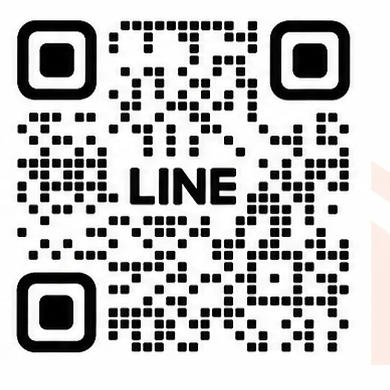
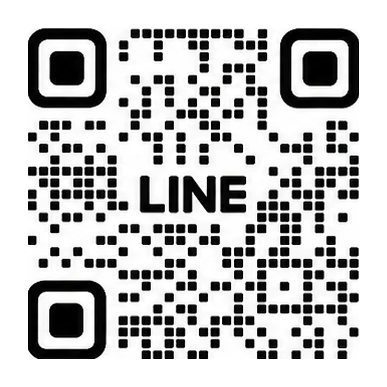
手機細節：形象照去黑邊、數字格等寬、QR 重裁；首頁砍掉在售物件區；影片區改頻道卡＋影片列並每日自動更新

diff --git a/index.html b/index.html
@@ -116,12 +116,12 @@ section.alt{background:#fff}
 
 /* 信任數字 */
 .stats{margin-top:-30px;position:relative;z-index:2;padding:0}
-.stats .grid{display:grid;grid-template-columns:repeat(4,1fr);gap:12px}
+.stats .grid{display:grid;grid-template-columns:repeat(4,minmax(0,1fr));gap:12px}
 .stat{background:#fff;border-radius:var(--r);box-shadow:var(--shadow);padding:18px 18px 16px;border-top:4px solid var(--orange)}
 .stat .v{font-size:30px;font-weight:900;color:var(--teal);line-height:1.1;letter-spacing:-.5px}
 .stat .v small{font-size:14px;font-weight:700;margin-left:2px}
 .stat .l{font-size:13px;color:var(--muted);margin-top:6px;line-height:1.45}
-@media (max-width:760px){.stats .grid{grid-template-columns:1fr 1fr}.stat{padding:14px}.stat .v{font-size:24px}}
+@media (max-width:760px){.stats .grid{grid-template-columns:repeat(2,minmax(0,1fr))}.stat{padding:14px}.stat .v{font-size:24px}.stat .l{font-size:12.5px}}
 
 /* 服務 */
 .svc{display:grid;grid-template-columns:repeat(3,1fr);gap:14px}
@@ -161,18 +161,34 @@ section.alt{background:#fff}
 .tool p{font-size:13px;color:var(--muted);line-height:1.5;margin-top:2px}
 @media (max-width:860px){.tools{grid-template-columns:1fr}}
 
-/* 社群 */
-.social{display:grid;grid-template-columns:1.3fr 1fr;gap:20px;align-items:start}
-.yt{position:relative;aspect-ratio:16/9;border-radius:var(--r);overflow:hidden;box-shadow:var(--shadow);background:#000}
-.yt iframe{position:absolute;inset:0;width:100%;height:100%;border:0}
-.links{display:grid;gap:10px}
-.lk{display:flex;align-items:center;gap:12px;background:#fff;border-radius:14px;padding:12px 14px;box-shadow:var(--shadow);text-decoration:none;color:var(--ink);transition:.18s}
-.lk:hover{transform:translateX(3px)}
-.lk .ic{width:38px;height:38px;border-radius:10px;display:flex;align-items:center;justify-content:center;color:#fff;font-weight:900;font-size:15px;flex:none}
-.lk b{font-size:15px;color:var(--teal)}
-.lk span{font-size:12.5px;color:var(--muted);display:block}
-.lk .go{margin-left:auto;color:var(--faint)}
-@media (max-width:860px){.social{grid-template-columns:1fr}}
+/* 影片 */
+.ch{display:flex;align-items:center;gap:14px;background:#fff;border-radius:var(--r);box-shadow:var(--shadow);padding:16px 18px;margin-bottom:14px}
+.ch img{width:64px;height:64px;border-radius:50%;object-fit:cover;flex:none;border:3px solid #fff;box-shadow:0 0 0 2px #ff0000}
+.ch .t{min-width:0;flex:1}
+.ch b{font-size:17px;color:var(--teal);display:block;white-space:nowrap;overflow:hidden;text-overflow:ellipsis}
+.ch span{font-size:13px;color:var(--muted);display:block}
+.ch .btn{background:#ff0000;color:#fff;border-color:#ff0000;padding:9px 14px;font-size:13.5px}
+.ch .btn:hover{background:#d90000}
+.vids{display:grid;grid-template-columns:repeat(3,minmax(0,1fr));gap:14px}
+.vd{display:flex;flex-direction:column;background:#fff;border-radius:var(--r);box-shadow:var(--shadow);overflow:hidden;text-decoration:none;color:var(--ink);transition:.2s}
+.vd:hover{transform:translateY(-3px)}
+.vd .th{position:relative;aspect-ratio:1/1;background:#111;overflow:hidden}
+.vd .th img{width:100%;height:100%;object-fit:cover}
+.vd .th i{position:absolute;left:50%;top:50%;width:48px;height:48px;margin:-24px 0 0 -24px;border-radius:50%;background:rgba(255,0,0,.92);display:flex;align-items:center;justify-content:center;box-shadow:0 6px 18px rgba(0,0,0,.35)}
+.vd .th i::after{content:"";border-left:16px solid #fff;border-top:10px solid transparent;border-bottom:10px solid transparent;margin-left:4px}
+.vd .bd{padding:12px 14px 14px}
+.vd h3{font-size:14.5px;line-height:1.5;color:var(--teal);display:-webkit-box;-webkit-line-clamp:2;-webkit-box-orient:vertical;overflow:hidden}
+.vd span{font-size:12px;color:var(--faint);display:block;margin-top:6px}
+.vids-empty{background:#fff;border-radius:var(--r);padding:24px;text-align:center;color:var(--muted);box-shadow:var(--shadow)}
+@media (max-width:760px){
+ .ch{padding:14px}.ch img{width:56px;height:56px}.ch b{font-size:15.5px}.ch .btn{padding:8px 12px;font-size:13px}
+ .vids{grid-template-columns:1fr;gap:10px}
+ .vd{flex-direction:row;align-items:stretch}
+ .vd .th{width:40%;flex:none;aspect-ratio:auto;min-height:104px}
+ .vd .th i{width:38px;height:38px;margin:-19px 0 0 -19px}.vd .th i::after{border-left-width:13px;border-top-width:8px;border-bottom-width:8px}
+ .vd .bd{padding:10px 12px;display:flex;flex-direction:column;justify-content:center}
+ .vd h3{font-size:14px;-webkit-line-clamp:3}
+}
 
 /* 名片區 */
 .vcard{background:#fff;border-radius:var(--r);box-shadow:var(--shadow);padding:22px;display:grid;grid-template-columns:1.1fr 1.4fr auto;gap:22px;align-items:center;border-top:5px solid var(--orange)}
@@ -209,7 +225,7 @@ footer.legal a{color:var(--faint)}
 
 <div class="top"><div class="in">
  <a class="logo" href="./"><i><svg width="16" height="16" viewBox="0 0 64 64"><path d="M32 14 12 32h6v18h12V38h4v12h12V32h6z" fill="#fff"/></svg></i>蘇聖斌<small>｜台灣房屋 松竹十一期</small></a>
- <nav><a href="#services">服務</a><a href="#listings">在售物件</a><a href="#tools">實用工具</a><a href="#social">影片</a><a href="#contact">聯絡</a></nav>
+ <nav><a href="#services">服務</a><a href="#tools">實用工具</a><a href="#social">影片</a><a href="#contact">聯絡</a></nav>
  <a class="btn p sm" href="https://line.me/R/ti/p/@a0888" target="_blank" rel="noopener">加 LINE</a>
 </div></div>
 
@@ -261,14 +277,8 @@ footer.legal a{color:var(--faint)}
  </div>
 </section>
 
-<section id="listings" class="alt">
- <div class="in">
-  <div class="sec-h fx"><div class="k">LISTINGS</div><h2>在售物件</h2><p>每一戶都有完整規格，點進去看照片、算房貸、直接問我。</p></div>
-  <div class="lst" id="lst"><div class="lst-empty">物件載入中…</div></div>
- </div>
-</section>
 
-<section id="tools">
+<section id="tools" class="alt">
  <div class="in">
   <div class="sec-h fx"><div class="k">TOOLS</div><h2>實用工具</h2><p>我做給客戶用的，免費、不用登入。</p></div>
   <div class="tools">
@@ -279,19 +289,11 @@ footer.legal a{color:var(--faint)}
  </div>
 </section>
 
-<section id="social" class="alt">
+<section id="social">
  <div class="in">
-  <div class="sec-h fx"><div class="k">VIDEO & SOCIAL</div><h2>看影片認識我</h2><p>社區實地走訪、買房觀念，每週更新。追蹤我，新物件第一時間知道。</p></div>
-  <div class="social">
-   <div class="yt fx"><iframe src="https://www.youtube.com/embed/videoseries?list=UUSqZFDGsO5xHP9JeqJdxNMA&rel=0" title="蘇聖斌 YouTube 最新影片" loading="lazy" allow="accelerometer; autoplay; clipboard-write; encrypted-media; gyroscope; picture-in-picture; web-share" allowfullscreen></iframe></div>
-   <div class="links">
-    <a class="lk fx" href="https://www.threads.com/@a0958810178" target="_blank" rel="noopener"><span class="ic" style="background:#000">@</span><div><b>Threads</b><span>每日物件與看屋心得</span></div><span class="go">›</span></a>
-    <a class="lk fx" href="https://www.instagram.com/bin_0958810178" target="_blank" rel="noopener"><span class="ic" style="background:linear-gradient(45deg,#f58529,#dd2a7b,#8134af)">IG</span><div><b>Instagram</b><span>物件照片、社區實景</span></div><span class="go">›</span></a>
-    <a class="lk fx" href="https://www.youtube.com/@Bin0958" target="_blank" rel="noopener"><span class="ic" style="background:#ff0000">▶</span><div><b>YouTube</b><span>社區走訪、買房觀念影片</span></div><span class="go">›</span></a>
-    <a class="lk fx" href="https://www.facebook.com/Su.Bin.0958810178" target="_blank" rel="noopener"><span class="ic" style="background:#1877f2">f</span><div><b>Facebook</b><span>成交分享、市場動態</span></div><span class="go">›</span></a>
-    <a class="lk fx" href="https://www.tiktok.com/@bin0958810178" target="_blank" rel="noopener"><span class="ic" style="background:#111">♪</span><div><b>TikTok</b><span>一分鐘看一間房</span></div><span class="go">›</span></a>
-   </div>
-  </div>
+  <div class="sec-h fx"><div class="k">VIDEO</div><h2>看影片認識我</h2><p>社區實地走訪、買房觀念，持續更新。訂閱頻道，新物件第一時間看到。</p></div>
+  <div class="ch fx" id="ch"><img src="https://yt3.googleusercontent.com/WoTkjdkzFi98tRWdFk49nfszS7aLfRkJ7g9odcjwTVHWumA3kO9iZFAvjW9eY1kDaQakgvDC=s900-c-k-c0x00ffffff-no-rj" alt="頻道頭像" width="64" height="64" loading="lazy" onerror="this.src='assets/portrait.jpg'"><div class="t"><b id="chName">台中房地產_蘇聖斌</b><span>YouTube 頻道・社區走訪、買房觀念、一分鐘看一間房</span></div><a class="btn" href="https://www.youtube.com/@Bin0958?sub_confirmation=1" target="_blank" rel="noopener">▶ 訂閱頻道</a></div>
+  <div class="vids" id="vids"><div class="vids-empty">影片載入中…</div></div>
  </div>
 </section>
 
@@ -330,22 +332,17 @@ footer.legal a{color:var(--faint)}
 /* 進場動畫 */
 const io=new IntersectionObserver(es=>es.forEach(e=>{if(e.isIntersecting){e.target.classList.add('in');io.unobserve(e.target);}}),{threshold:.12});
 document.querySelectorAll('.fx').forEach(el=>io.observe(el));
+setTimeout(()=>document.querySelectorAll('.fx').forEach(el=>el.classList.add('in')),1200);
 
-/* 在售物件：讀 threads-poster 的公開規格 */
-const RAW='https://raw.githubusercontent.com/Bin-realty/threads-poster/main/';
-const box=document.getElementById('lst');
-const esc=s=>String(s||'').replace(/[&<>"]/g,c=>({'&':'&amp;','<':'&lt;','>':'&gt;','"':'&quot;'}[c]));
-function parseSpec(spec){const o={};String(spec||'').split('\n').forEach(l=>{const m=l.replace(/^┃/,'').split('：');if(m.length>=2)o[m[0].trim()]=m.slice(1).join('：').trim();});return o;}
-fetch(RAW+'data/listings.json',{cache:'no-store'}).then(r=>r.json()).then(j=>{
-  const arr=(j.listings||[]).filter(l=>l.code&&l.name);
-  if(!arr.length){box.innerHTML='<div class="lst-empty">目前沒有公開中的物件，想找房直接 <a href="https://line.me/R/ti/p/@a0888">LINE 我</a>。</div>';return;}
-  box.innerHTML=arr.map(l=>{const s=parseSpec(l.spec);const code=l.code.toLowerCase();
-    return `<a class="lc fx in" href="listing.html?code=${esc(l.code)}">
-     <div class="ph"><div class="nm">${esc(l.name)}</div><img src="${RAW}listings/${code}/album/01.jpg" alt="${esc(l.name)}" loading="lazy" onerror="this.remove()"><span class="tag">${esc(l.layout||'')}</span></div>
-     <div class="bd"><h3>${esc(l.name)}</h3><div class="ask">${esc(l.ask||'')}<small>${esc(s['建坪']||'')}</small></div>
-     <div class="sp">${s['地址']?`<b>${esc(s['地址'])}</b><br>`:''}${[s['樓層'],s['屋齡'],s['車位']].filter(Boolean).map(esc).join('・')}</div>
-     <div class="more">看照片、算房貸 ›</div></div></a>`;}).join('');
-}).catch(()=>{box.innerHTML='<div class="lst-empty">物件暫時載入不了，到 <a href="https://www.threads.com/@a0958810178" target="_blank" rel="noopener">Threads</a> 看最新物件，或直接 <a href="https://line.me/R/ti/p/@a0888">LINE 我</a>。</div>';});
+/* 影片清單（data/videos.json，每天自動更新） */
+const vb=document.getElementById("vids");
+fetch("data/videos.json",{cache:"no-store"}).then(r=>r.json()).then(j=>{
+  const vs=(j.videos||[]).slice(0,6);const esc=t=>String(t||"").replace(/[&<>"]/g,c=>({"&":"&amp;","<":"&lt;",">":"&gt;","\"":"&quot;"}[c]));
+  if(j.channel&&j.channel.name)document.getElementById("chName").textContent=j.channel.name;
+  if(j.channel&&j.channel.avatar){const im=document.querySelector("#ch img");if(im.src!==j.channel.avatar)im.src=j.channel.avatar;}
+  if(!vs.length){vb.innerHTML='<div class="vids-empty">影片陸續上傳中，先到 <a href="https://www.youtube.com/@Bin0958" target="_blank" rel="noopener">頻道</a> 逛逛。</div>';return;}
+  vb.innerHTML=vs.map(v=>`<a class="vd fx in" href="https://www.youtube.com/watch?v=${esc(v.id)}" target="_blank" rel="noopener"><div class="th"><img src="https://i.ytimg.com/vi/${esc(v.id)}/hqdefault.jpg" alt="" loading="lazy"><i></i></div><div class="bd"><h3>${esc(v.title)}</h3><span>${esc(v.published||"")}</span></div></a>`).join("");
+}).catch(()=>{vb.innerHTML='<div class="vids-empty">到 <a href="https://www.youtube.com/@Bin0958" target="_blank" rel="noopener">YouTube 頻道</a> 看最新影片。</div>';});
 
 /* 存到通訊錄 */
 document.getElementById('vcf').addEventListener('click',()=>{

diff --git a/CLAUDE.md b/CLAUDE.md
@@ -3,7 +3,9 @@
 網址：https://bin-realty.github.io/bin0958/
 
 - 純靜態、單檔 HTML、無 build。**上線方式：Pages 目前吃 `gh-pages` 分支**（GitHub 自動啟用的），所以每次改完要 `git push origin main` 再 `git push origin main:gh-pages`，兩個都推才會更新。（聖斌若哪天在 Settings → Pages 把來源改成 main，就不用再推 gh-pages。）
-- 頁面：index.html 品牌首頁｜listing.html?code=L001 物件頁｜mortgage.html 房貸試算｜needs.html 找房需求單｜sites.html 網站總覽。
+- 頁面：index.html 品牌首頁（首頁不列在售物件，聖斌 11/07 決定砍掉）｜listing.html?code=L001 物件頁（只給連結用）｜mortgage.html 房貸試算｜needs.html 找房需求單｜sites.html 網站總覽。
+- 首頁「看影片認識我」讀 `data/videos.json`；`.github/workflows/videos.yml` 每天抓 YouTube 頻道 RSS 更新並自動 push main＋gh-pages。**改東西前先 `git pull`**，不然會和機器人的 commit 衝突。
+- 素材：assets/portrait.jpg 是去黑邊後的形象照（原檔在 realty-data/assets/形象照/），assets/line_qr.png 是名片 QR 重裁加白邊版。
 - 物件資料從 threads-poster 的 data/listings.json 直接讀（raw.githubusercontent），照片讀 threads-poster listings/<code小寫>/album/NN.jpg；本 repo 不存物件資料。
 - 公開 repo：絕不放客戶、屋主、電話、門牌號、底價、內部紀錄。聯絡資料只放名片上的公開資訊。
 - 稱呼一律「聖斌／蘇聖斌」。文案規則與署名見 threads-poster/CLAUDE.md；私人規則在 realty-data（私人 repo）。
